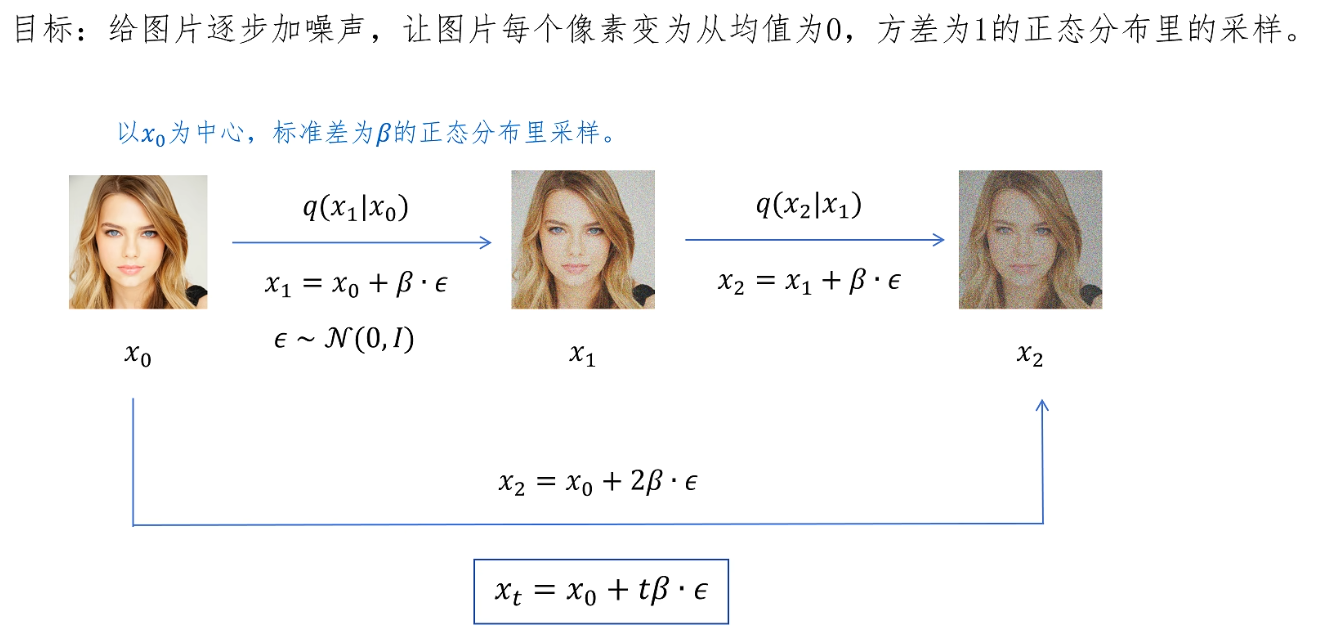
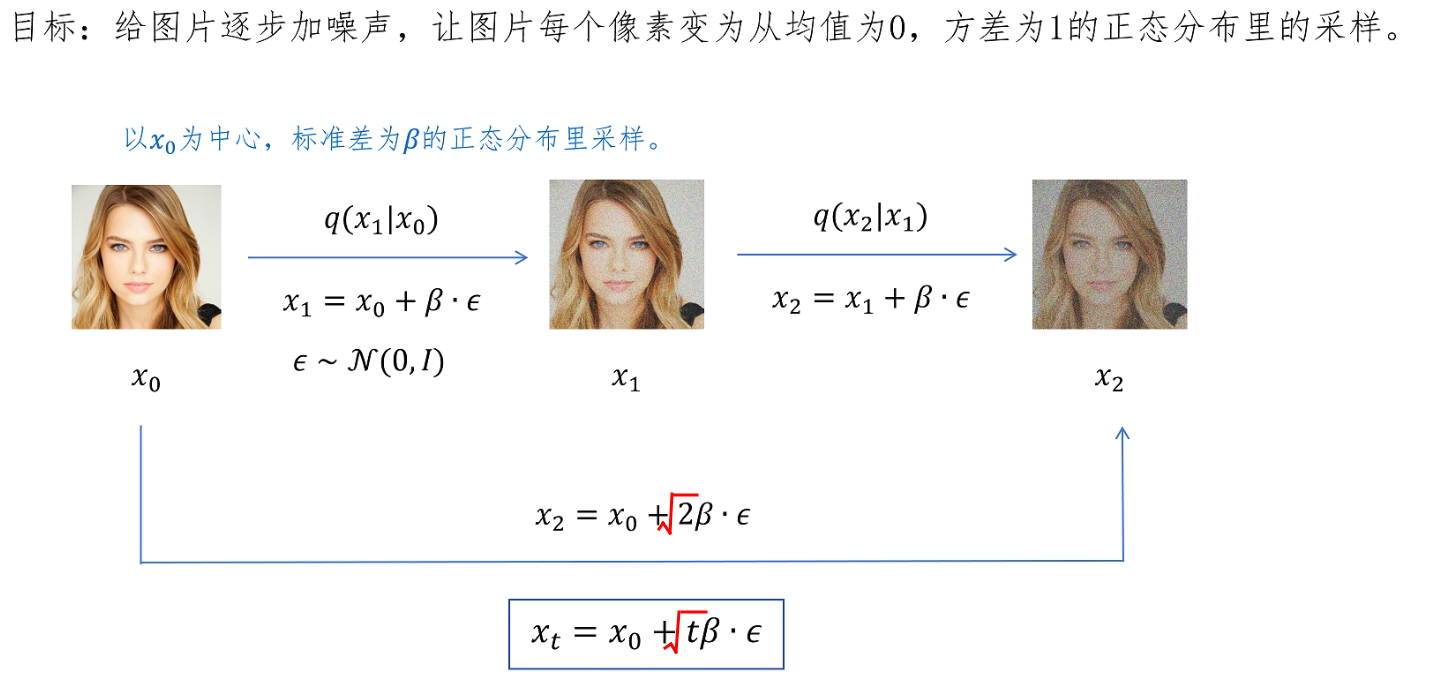
update

diff --git a/Robotics/KinematicsKinetics/test.py b/Robotics/KinematicsKinetics/test.py
@@ -1,23 +1,6 @@
-import numpy as np
+import math
 
-theta = 5
-c = np.cos(theta)
-s = np.sin(theta)
-d = 10
 
-R = np.array([
-    [c,-s, 0, 0],
-    [s, c, 0, 0],
-    [0, 0, 1, 0],
-    [0, 0, 0, 1],
-])
-
-T = np.array([
-    [1, 0, 0, 0],
-    [0, 1, 0, 0],
-    [0, 0, 1, d],
-    [0, 0, 0, 1],
-])
-
-print(R @ T == T @ R)
-
+print(2 * math.atan(120 / 135.21) / math.pi * 180)
+print(2 * math.atan(80 / 135.205) / math.pi * 180)
+print(2 * math.atan(40 / 60 * math.tan(math.radians(83.17864343711821 / 2))) / math.pi * 180)

diff --git a/GenerativeModel/DiffusionModel/DDPM.md b/GenerativeModel/DiffusionModel/DDPM.md
@@ -27,16 +27,16 @@
 
 整体过程
 1. <img src="Pics/rethinkfun001.png" width=600>
-2. $x_0$ : 原始&清晰的 图片
+2. $x_0$ : 原始 清晰 图片
 3. $x_T$ : 完全变为噪声的 图片
 4. 希望 网络学习 一步步 去噪声 denoising 过程
-5. 训练好网络后，可以 随机生成 噪声数据，让模型 逐步去噪，生成清晰的图片
+5. 训练好网络后，随机生成 噪声数据，让模型 逐步去噪，生成清晰的图片
 
 正向加噪
 1. <img src="Pics/rethinkfun002.png" width=600>
 2. **目标** : 使得 每个pixel的值 像是从 标准正态分布 中 采样 (简化反向过程的起点)
    1. $q(x_T|x_0)$ 逼近 $\mathcal{N}(0, I)$
-      1. 意味着最终的噪声 $x_T$ 几乎完全忘记了它最初来自的图像 $x_0$ 的信息，几乎与 $x_0$ 独立
+      1. 意味着最终的噪声 $x_T$ 几乎完全忘记了它最初来自的图像 $x_0$ 的信息，分布里已经没有 $x_0$ 的参数了，几乎与 $x_0$ 独立
    2. $x_T \sim \mathcal{N}(0,I)$
 3. ==加噪过程中，每个像素值都是独立的==，生成多维度噪声(形状和图片一致)
 4. **单步加噪**
@@ -44,10 +44,11 @@
    2. 相当于从 以 $x_0$ 为均值 & $\beta$ 为标准差 的正态分布 中 采样
    3. 可以 继续根据上述步骤 单步加噪
 5. 其实也可以 **多步加噪**
+   1. 随机变量相互独立(或至少不相关)时，它们的 和或差 的方差 等于各自方差之和，若存在相关性，则需要加上协方差项
 6. 目前 加噪过程 存在问题
    1. <img src="Pics/rethinkfun003.png" width=600>
    2. 均值一直为 $x_0$，方差一直增大，无法实现最终 $x_T \sim \mathcal{N}(0,I)$
-   3. 后期，图像逐渐杂乱，如果希望达到同样的破坏效果，应该加更大噪声，而现在的噪声强度不变
+   3. **后期**，图像逐渐杂乱，如果希望达到同样的破坏效果，**应该加更大噪声**，而现在的噪声强度不变
 7. DDPM 改进
    1. <img src="Pics/rethinkfun004.png" width=450>
    2. 人为定义不同噪声强度，$\beta_1, \cdots, \beta_T$，并且用 $\alpha$ 替换，方便后续表示

diff --git a/DeepLearning/ModelSaveLoad/save_load.md b/DeepLearning/ModelSaveLoad/save_load.md
@@ -87,6 +87,10 @@
 2. 强依赖 PyTorch 版本 / pickle 协议，跨版本、跨框架不可靠，在生产并不推荐
 3. 安全风险：Pickle 反序列化可执行任意代码，仅加载可信来源；一般不建议在部署/分发中使用
 4. 更推荐使用 `state_dict` 或 TorchScript/ONNX 等可移植格式
+5. pickle 不会把类代码一起存进去，而是记录
+   1. 对象的 模块名 : 比如 "autoencoder.height_encoder_nn"
+   2. 对象的 类名 : 比如 "AutoencoderMLP3EN"
+   3. 对象的参数(state_dict 等)
 
 
 

diff --git a/LargeModel/CLIP/CLIP.md b/LargeModel/CLIP/CLIP.md
@@ -2,9 +2,11 @@
 
 [CLIP - Github](https://github.com/openai/CLIP)
 
-[CLIP 解读 - B站](https://www.bilibili.com/video/BV1SL4y1s7LQ)
+[CLIP 论文精度 - B站(李沐 & bryanyzhu)](https://www.bilibili.com/video/BV1SL4y1s7LQ)
 
 [CLIP - OpenCV Bootcamp Slide](./OpenCV-Bootcamp_CLIP_Internals_and_Architecture.pdf)
+
+[CLIP - OpenAI MileStone](https://openai.com/index/clip/)
 
 ---
 
